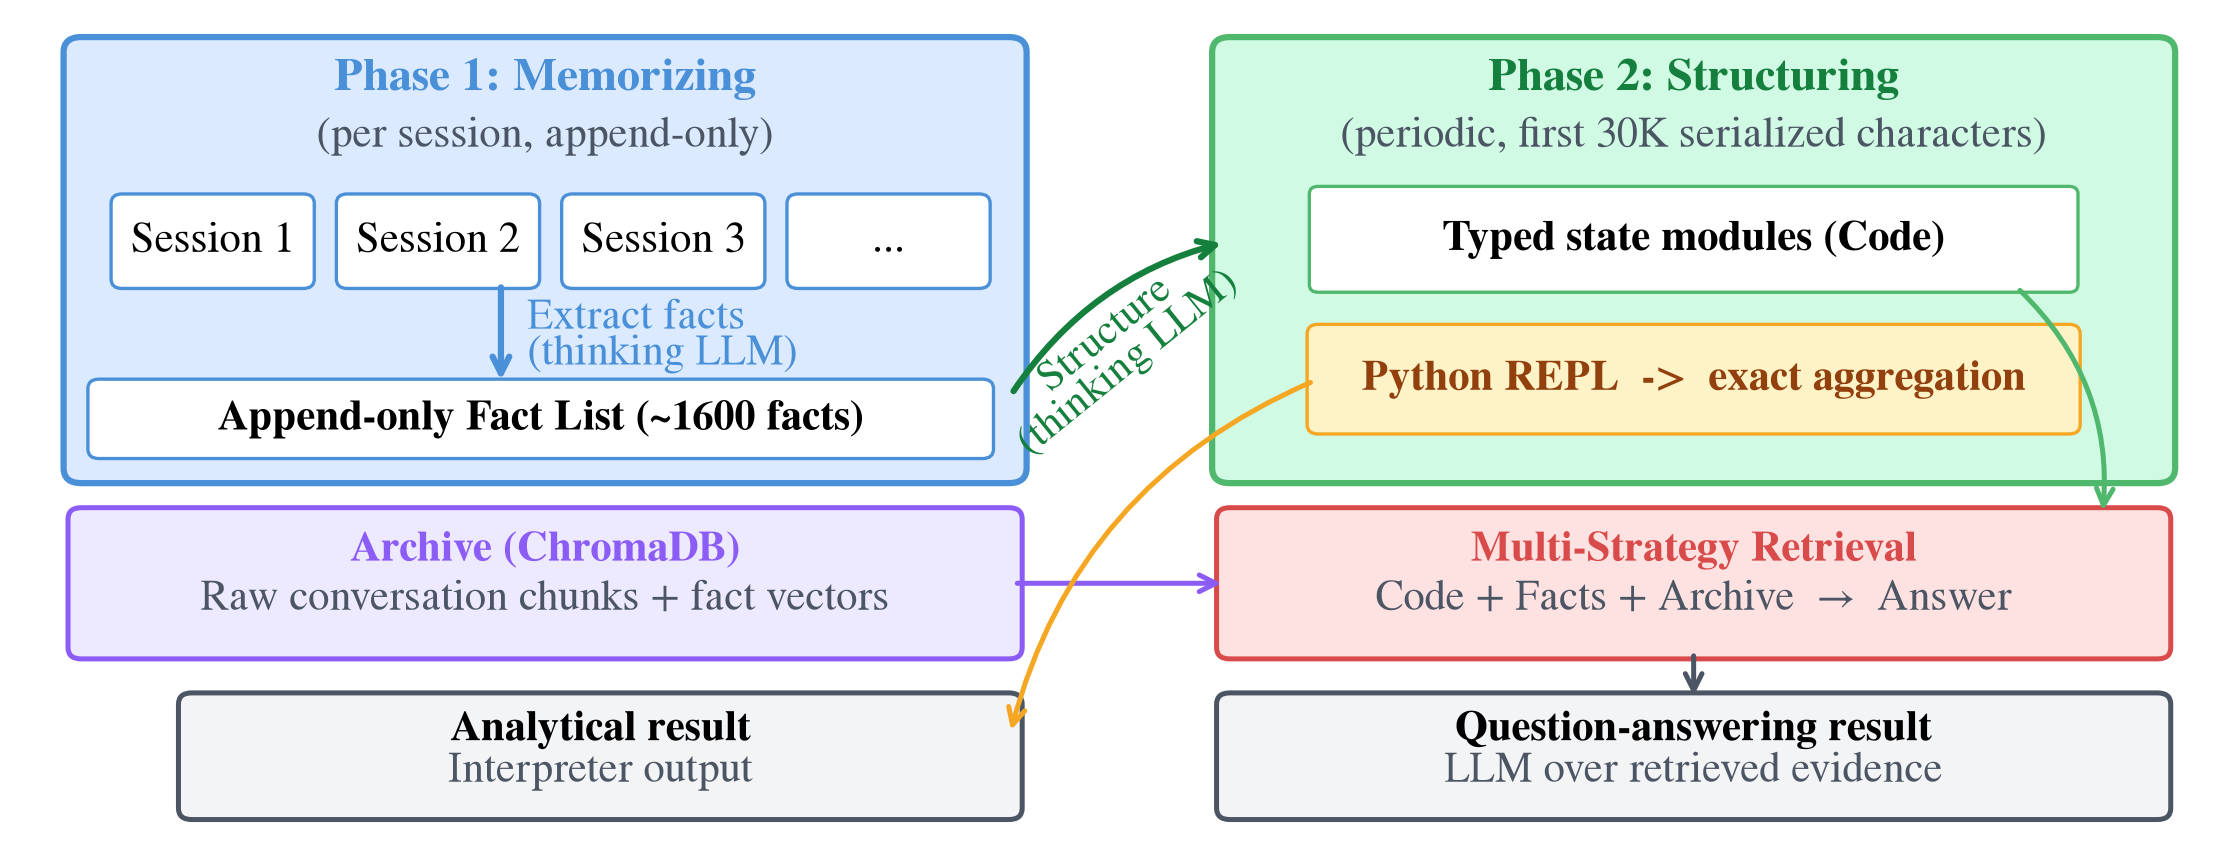
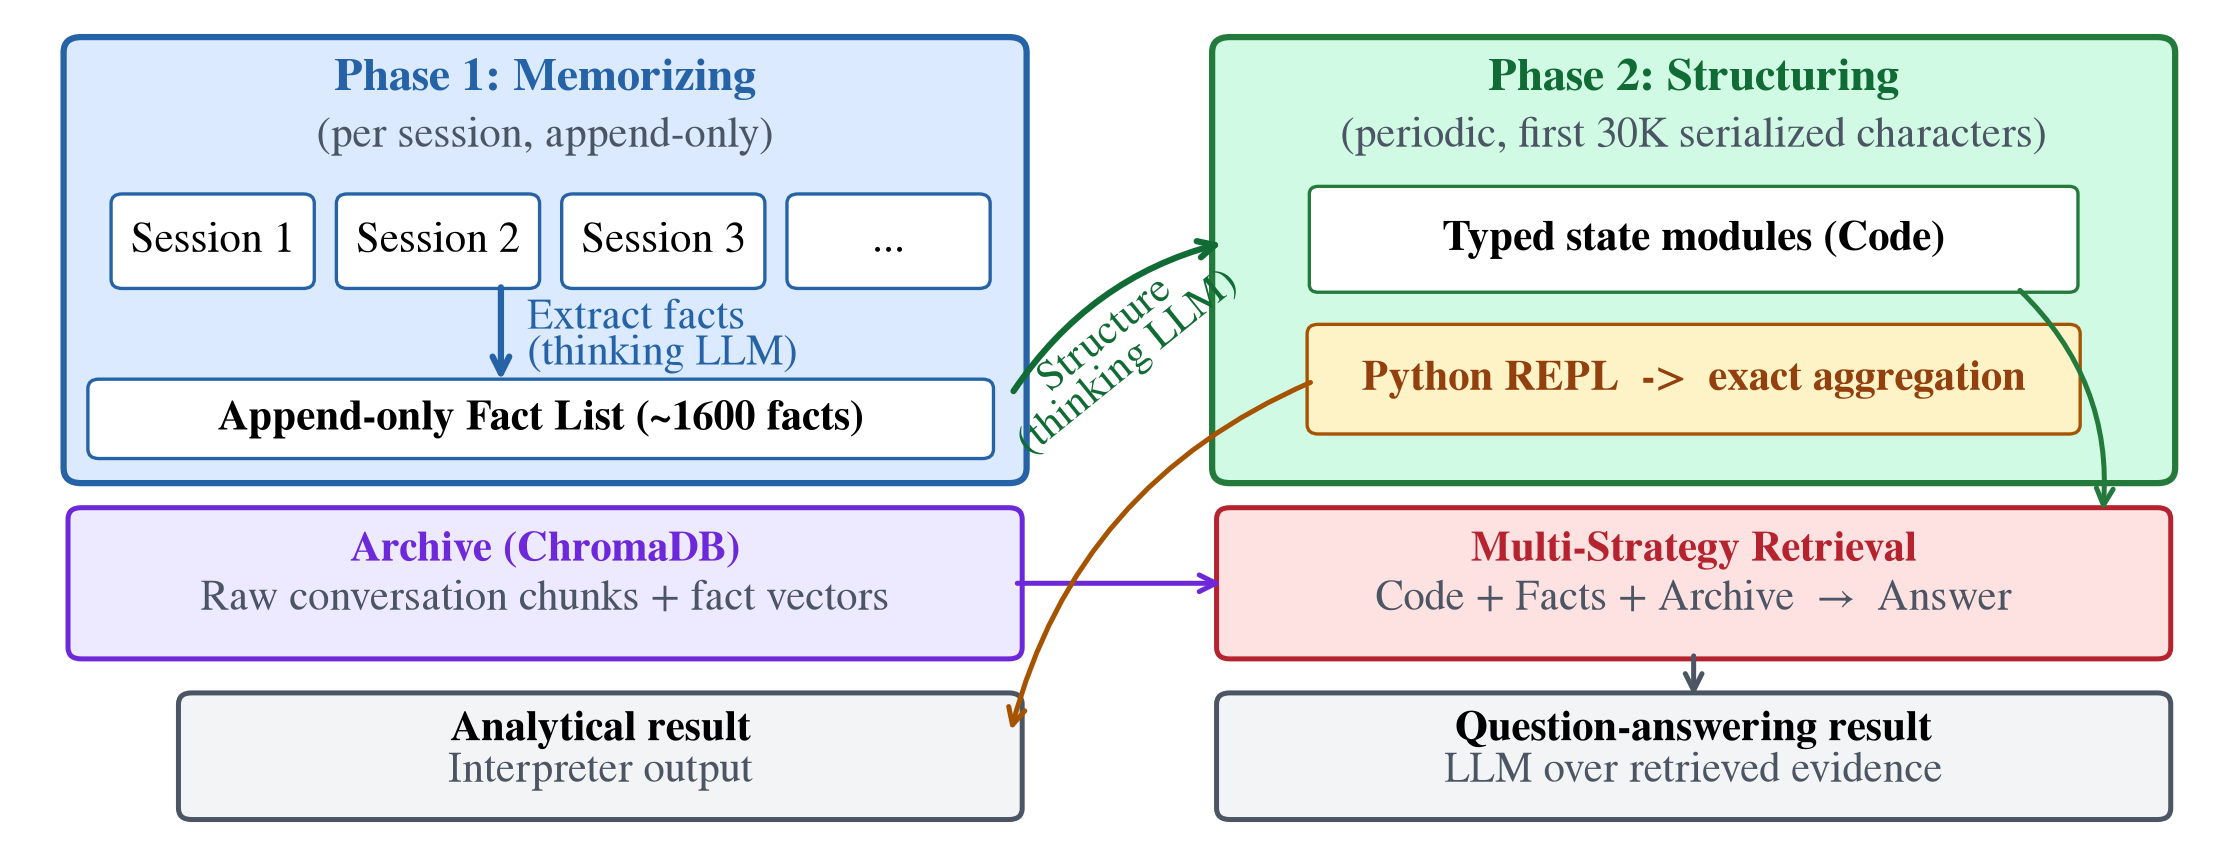
Paper: increase figure contrast

diff --git a/paper_aaai/figures/generate_figures.py b/paper_aaai/figures/generate_figures.py
@@ -22,12 +22,12 @@ plt.rcParams.update({
     'ps.fonttype': 42,
 })
 
-BLUE = '#4A90D9'
-GREEN = '#50B86C'
-ORANGE = '#F5A623'
-RED = '#D94A4A'
-PURPLE = '#8B5CF6'
-GRAY = '#9CA3AF'
+BLUE = '#2563A6'
+GREEN = '#237A3B'
+ORANGE = '#A65300'
+RED = '#B4232E'
+PURPLE = '#6D28D9'
+GRAY = '#59636F'
 DARKGRAY = '#4B5563'
 LIGHTBLUE = '#DBEAFE'
 LIGHTGREEN = '#D1FAE5'
@@ -78,7 +78,7 @@ def fig_architecture():
     phase2 = mpatches.FancyBboxPatch((5.5, 3.35), 4.2, 2.2,
         boxstyle="round,pad=0.08", facecolor=LIGHTGREEN, edgecolor=GREEN, linewidth=1.5)
     ax.add_patch(phase2)
-    ax.text(7.6, 5.35, 'Phase 2: Structuring', ha='center', fontweight='bold', fontsize=11.2, color='#15803D')
+    ax.text(7.6, 5.35, 'Phase 2: Structuring', ha='center', fontweight='bold', fontsize=11.2, color='#116B34')
     ax.text(7.6, 5.05, '(periodic, first 30K serialized characters)', ha='center', fontsize=10.2, color=DARKGRAY)
 
     # Code representation
@@ -89,9 +89,9 @@ def fig_architecture():
 
     # Arrow from facts to code
     ax.annotate('', xy=(5.5, 4.55), xytext=(4.5, 3.72),
-        arrowprops=dict(arrowstyle='->', color='#15803D', lw=1.5, connectionstyle='arc3,rad=-0.2'))
+        arrowprops=dict(arrowstyle='->', color='#116B34', lw=1.5, connectionstyle='arc3,rad=-0.2'))
     ax.text(4.98, 3.99, 'Structure\n(thinking LLM)', ha='center', va='center',
-            fontsize=10.2, linespacing=0.95, color='#15803D', rotation=39)
+            fontsize=10.2, linespacing=0.95, color='#116B34', rotation=39)
 
     # Analytical execution over the typed view.
     const_box = mpatches.FancyBboxPatch((5.9, 3.58), 3.4, 0.48,

diff --git a/paper_aaai/AnonymousSubmission2027.tex b/paper_aaai/AnonymousSubmission2027.tex
@@ -37,7 +37,7 @@
 \usepackage{amssymb}
 
 \definecolor{codegreen}{rgb}{0.0,0.5,0.0}
-\definecolor{codegray}{rgb}{0.5,0.5,0.5}
+\definecolor{codegray}{rgb}{0.4,0.4,0.4}
 \definecolor{codepurple}{rgb}{0.58,0,0.82}
 \definecolor{codeblue}{rgb}{0.0,0.0,0.7}
 
